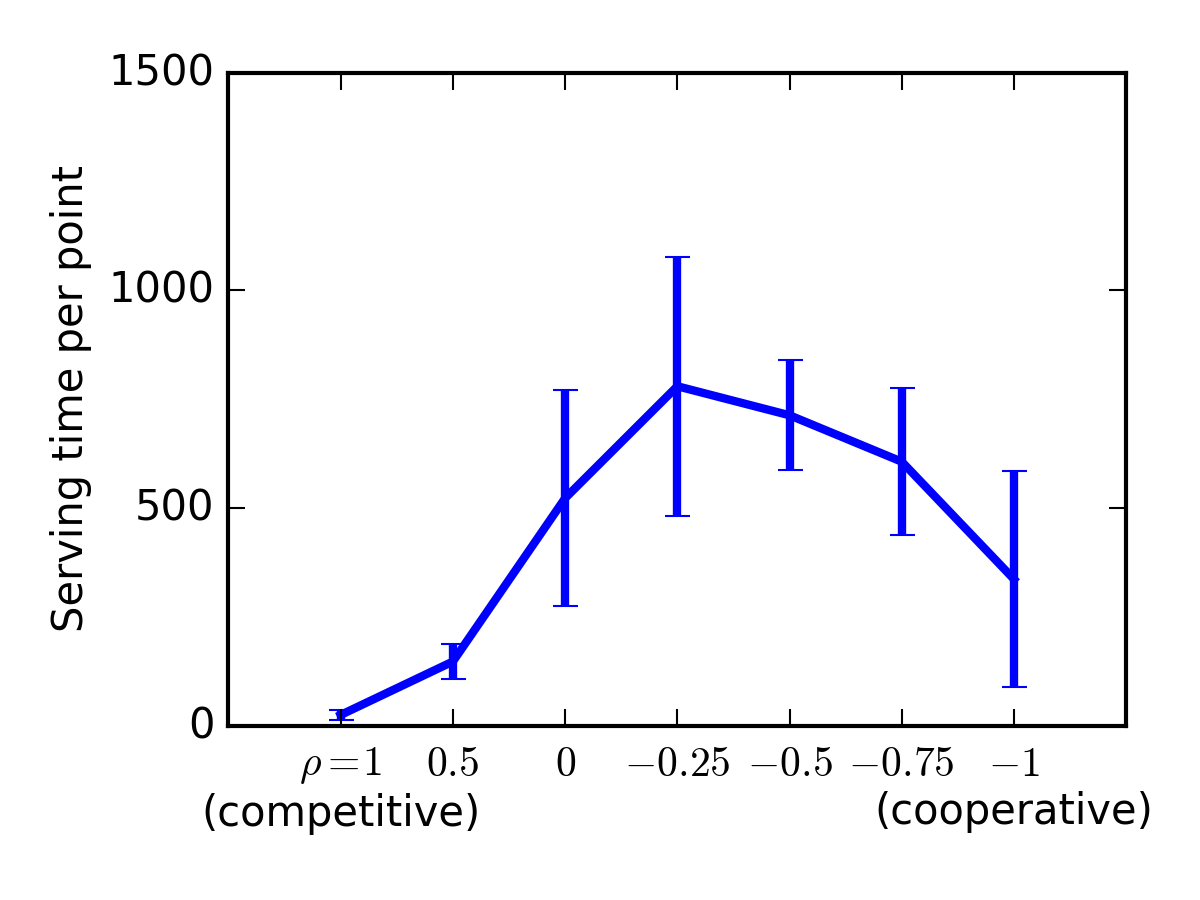
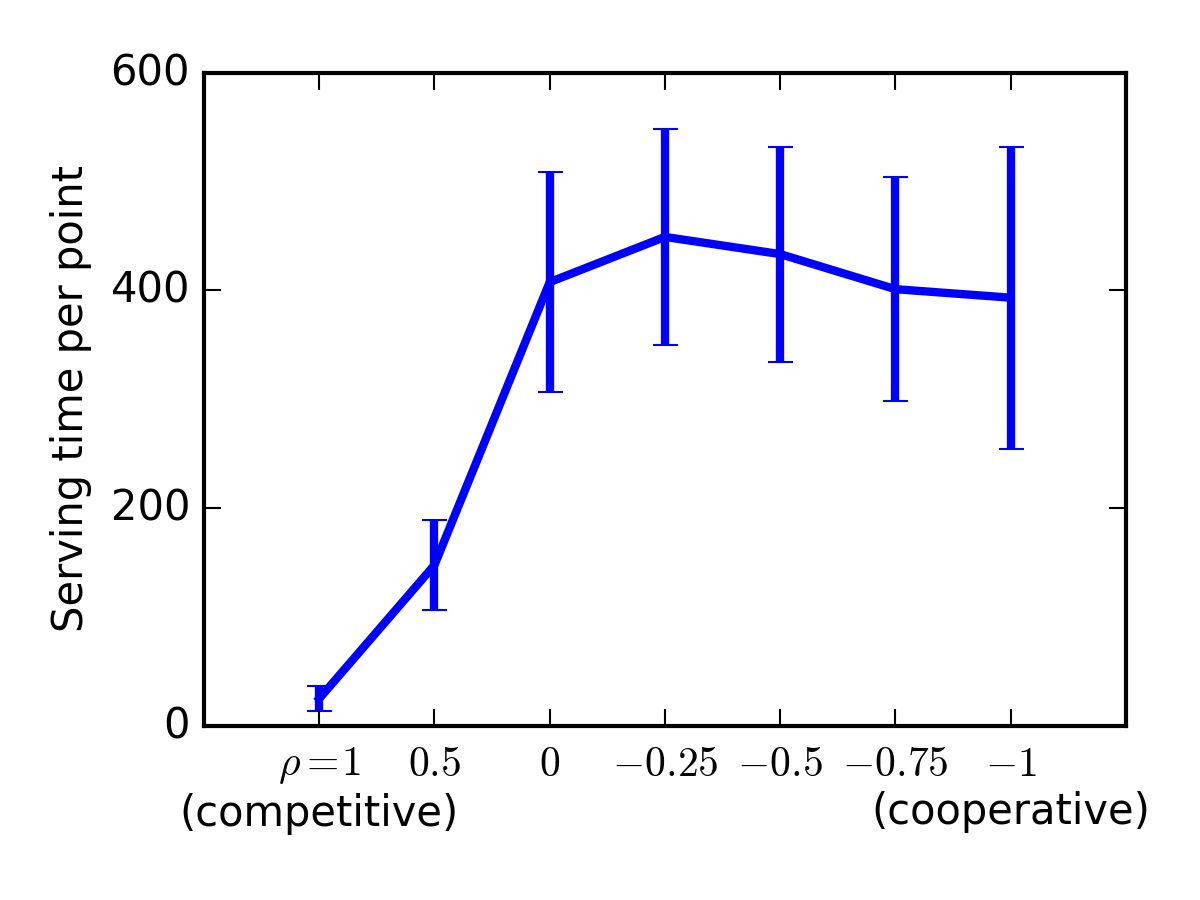
Updated statistics after fixing crash problem.

diff --git a/plots/stats.tex b/plots/stats.tex
@@ -1,7 +1,7 @@
 Competitive $\rho=1$ & $ 6.739 \pm 0.401 $ & $ 0.807 \pm 0.055 $ & $ 25.043 \pm 11.173 $ \\
 Transition $\rho=0.5$ & $ 6.928 \pm 0.492 $ & $ 0.637 \pm 0.031 $ & $ 147.694 \pm 41.016 $ \\
-Transition $\rho=0$ & $ 5.277 \pm 1.291 $ & $ 0.779 \pm 0.051 $ & $ 522.820 \pm 247.375 $ \\
-Transition $\rho=-0.25$ & $ 8.721 \pm 2.017 $ & $ 0.595 \pm 0.054 $ & $ 779.954 \pm 297.401 $ \\
-Transition $\rho=-0.5$ & $ 10.349 \pm 1.126 $ & $ 0.383 \pm 0.042 $ & $ 713.301 \pm 126.325 $ \\
-Transition $\rho=-0.75$ & $ 37.153 \pm 30.739 $ & $ 0.363 \pm 0.347 $ & $ 606.646 \pm 168.931 $ \\
-Cooperative $\rho=-1$ & $ 357.683 \pm 87.768 $ & $ 0.007 \pm 0.005 $ & $ 336.771 \pm 247.766 $ \\
+Transition $\rho=0$ & $ 4.308 \pm 0.248 $ & $ 0.779 \pm 0.051 $ & $ 407.641 \pm 100.793 $ \\
+Transition $\rho=-0.25$ & $ 5.209 \pm 0.360 $ & $ 0.595 \pm 0.054 $ & $ 449.180 \pm 99.534 $ \\
+Transition $\rho=-0.5$ & $ 6.201 \pm 0.197 $ & $ 0.383 \pm 0.042 $ & $ 433.391 \pm 98.775 $ \\
+Transition $\rho=-0.75$ & $ 27.024 \pm 26.876 $ & $ 0.362 \pm 0.347 $ & $ 401.175 \pm 102.741 $ \\
+Cooperative $\rho=-1$ & $ 654.659 \pm 542.666 $ & $ 0.007 \pm 0.005 $ & $ 393.342 \pm 138.631 $ \\
